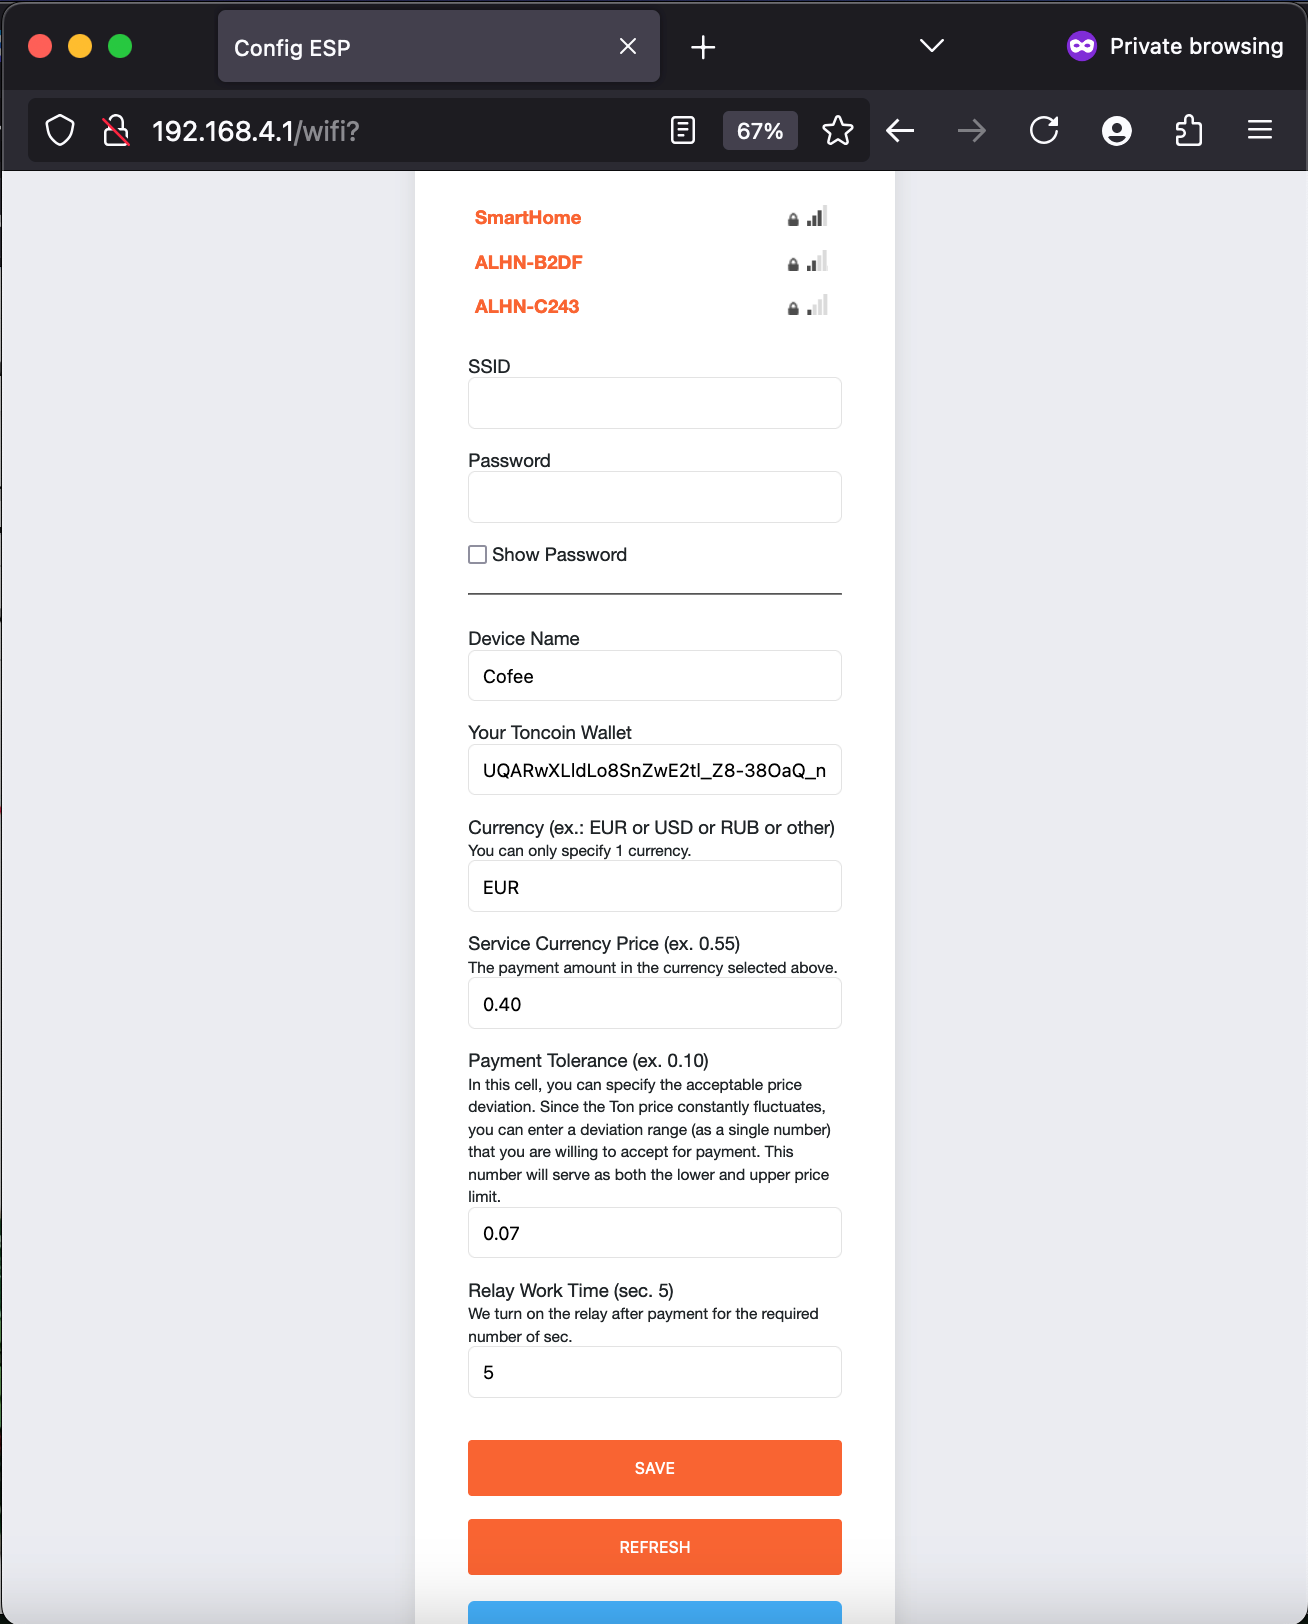
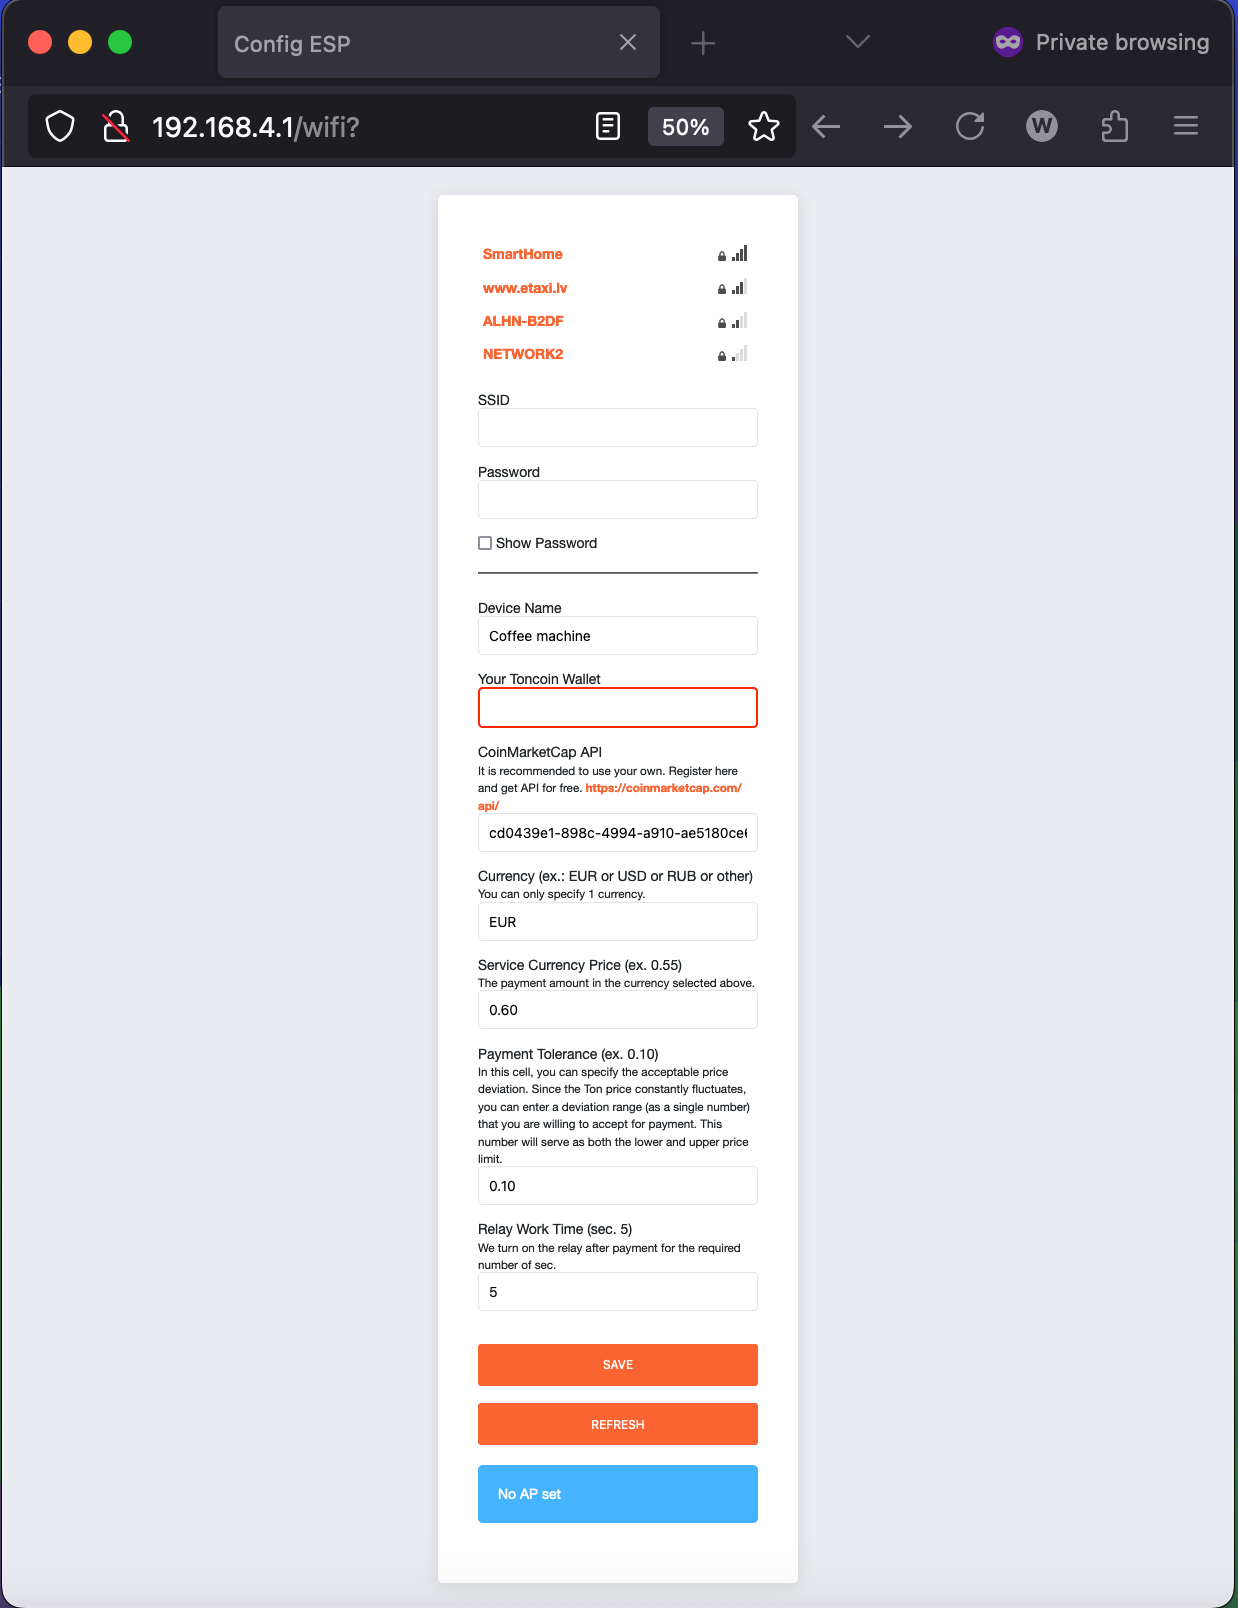
Readme fix

diff --git a/README_RU.md b/README_RU.md
@@ -4,6 +4,7 @@
  Удобный и быстрый способ внедрения платных услуг с использованием криптовалюты TonCoin. Процесс простой: Вы открываете любой крипто кошелек, сканируете QR-код (Его можно например распечатать на листике с необходимой суммой), переводите эту указанную сумму, и как только платеж будет получен, реле активируется и включит ваш прибор на заданное вами время. Это может быть любой прибор, от чайника, кофемашины и лампочки до включения электричества в помещение или любом другом месте.
 
 Вы можете собрать устройство самостоятельно или попросить это сделать для вас. Для заказа готового устройства свяжитесь через [Telegram](https://t.me/ESPiotDevice), [Skype](https://skype:renat2985?chat), [Discord](https://discord.com/invite/zaGaDuGe).
+У нас есть похожий проект с экраном, [посмотри](https://github.com/renat2985/toncoin_payment).
 
 
 <img src="https://github.com/renat2985/toncoin_payment_sonoff/blob/main/doc/intro2.png">
@@ -23,6 +24,7 @@
    - **Роутер и пароль:** Введите данные для подключения к вашему Wi-Fi.
    - **Device Name:** Укажите имя устройства, например, "Buy coffee".
    - **Your Toncoin Wallet:** Введите адрес вашего кошелька для приема платежей.
+   - **CoinMarketCap API:** Это сервис, который позволяет получать текущую цену TonCoin в фиатной валюте. Для тестирования можно не менять API, но если вы планируете использовать устройство на постоянной основе, настоятельно рекомендуется зарегистрироваться на сайте [CoinMarketCap](https://coinmarketcap.com/api/) и получить свой собственный API. Т.к. бесплатная версия позволяет делать до 10 000 запросов в месяц на получение цены. Для 10 устройств этого вполне достаточно, но если наше API будет использоваться большим количеством устройств, не все смогут получать актуальную цену, и в результате оплата может не пройти.
    - **Сurrency:** Выберите валюту, в которой хотите получать оплату (EUR, USD, RUB, BYN, BGN, GBP и др.). Это необходимо для автоматической конвертации суммы в TonCoin на основе текущего курса, который обновляется каждый час через coinmarketcap.com.
    - **Service Currency Price:** Укажите цену в выбранной валюте, которую клиент должен оплатить.
    - **Payment Tolerance:** В этой ячейке указывается допустимая погрешность в цене. Поскольку стоимость Ton постоянно колеблется, здесь нужно указать диапазон отклонений (одной цифрой), который вы готовы принять при оплате.
@@ -53,7 +55,7 @@
 
 
 ### Для совсем профи инструкция для прошивки через программатор
-### Specification [ESP8266.bin](https://github.com/renat2985/toncoin_payment_sonoff/raw/main/build/esp8266.esp8266.generic/toncoin_payment_sonoff.ino.bin) / [ESP8285.bin](https://github.com/renat2985/toncoin_payment_sonoff/raw/main/build/esp8266.esp8266.esp8285/toncoin_payment_sonoff.ino.bin) files
+### Specification [toncoin_payment_sonoff.ino.bin](https://github.com/renat2985/toncoin_payment_sonoff/raw/main/build/esp8266.esp8266.generic/toncoin_payment_sonoff.ino.bin) file
 ```
   -  Module: Generic ESP8266 Module
   -  Flash Size: 1M

diff --git a/README.md b/README.md
@@ -5,6 +5,7 @@
 A convenient and fast way to implement paid services using the TonCoin cryptocurrency. The process is simple: You open any crypto wallet, scan the QR code (for example, it can be printed on a sheet with the required amount), transfer the specified amount, and as soon as the payment is received, the relay will activate and turn on your device for the time you set. This could be any device, from a kettle, coffee machine, or light bulb to powering electricity in a room or another location.
 
 You can assemble the device yourself or ask to build it for you. To order a ready-made device, contact me via [Telegram](https://t.me/ESPiotDevice), [Skype](https://skype:renat2985?chat), [Discord](https://discord.com/invite/zaGaDuGe).
+We have a similar project with a screen, [check it out](https://github.com/renat2985/toncoin_payment).
 
 
 <img src="https://github.com/renat2985/toncoin_payment_sonoff/blob/main/doc/intro2.png">
@@ -24,6 +25,7 @@ You can assemble the device yourself or ask to build it for you. To order a read
    - **Router and Password:** Enter your Wi-Fi connection details.
    - **Device Name:** Specify a device name, e.g., "Buy coffee."
    - **Your Toncoin Wallet:** Enter your wallet address to receive payments.
+   - **CoinMarketCap API:** Is a service that allows you to get the current TonCoin price in fiat currency. For testing, you can use the default API, but if you plan to use the device on a regular basis, it is highly recommended to register on the [CoinMarketCap](https://coinmarketcap.com/api/) website and get your own API. The free version allows up to 10,000 requests per month for price data. This is more than enough for 10 devices, but if our API is used by more devices, not everyone will be able to receive the actual price, and as a result, payments may fail.
    - **Currency:** Select the currency in which you want to receive payments (EUR, USD, RUB, BYN, BGN, GBP, etc.). This is necessary for automatic conversion to TonCoin based on the current exchange rate, updated hourly through coinmarketcap.com.
    - **Service Currency Price:** Specify the price in your selected currency that the customer should pay.
    - **Payment Tolerance:** In this field, specify the acceptable price deviation. Since the Ton price constantly fluctuates, you need to indicate a deviation range (as a single number) that you are willing to accept for payment.
@@ -51,7 +53,7 @@ Good luck! If you have any questions, don't hesitate to reach out.
 
 
 ### For Advanced Users: Firmware Instructions via Programmer
-### Specification [ESP8266.bin](https://github.com/renat2985/toncoin_payment_sonoff/raw/main/build/esp8266.esp8266.generic/toncoin_payment_sonoff.ino.bin) / [ESP8285.bin](https://github.com/renat2985/toncoin_payment_sonoff/raw/main/build/esp8266.esp8266.esp8285/toncoin_payment_sonoff.ino.bin) files
+### Specification [toncoin_payment_sonoff.ino.bin](https://github.com/renat2985/toncoin_payment_sonoff/raw/main/build/esp8266.esp8266.generic/toncoin_payment_sonoff.ino.bin) file
 ```
   -  Module: Generic ESP8266 Module
   -  Flash Size: 1M
